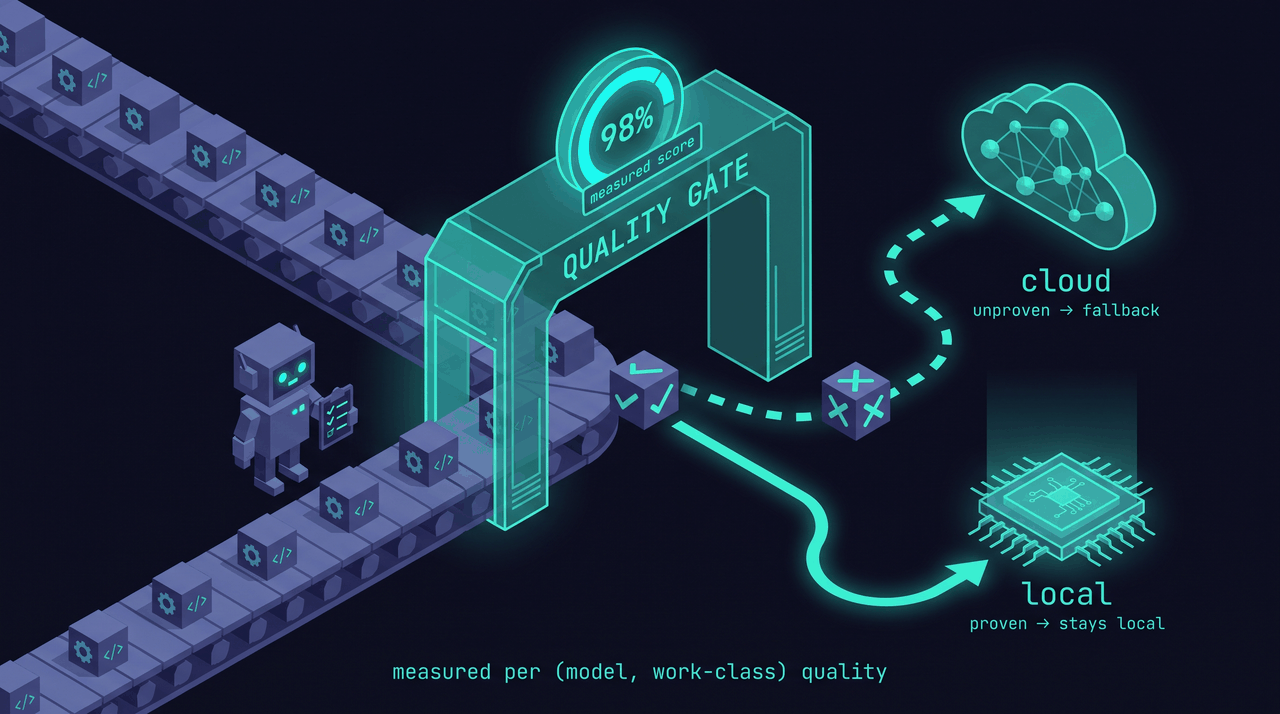
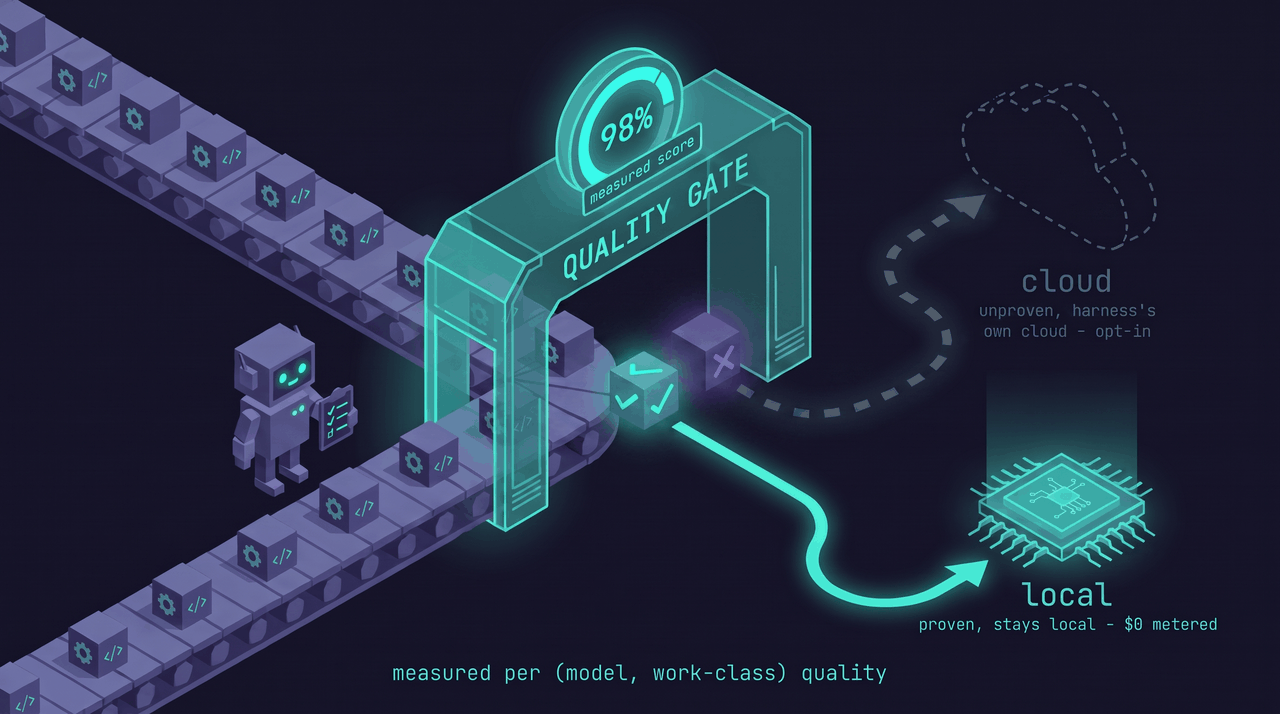
docs(assets): refresh architecture + quality-gate images for advise-and-defer (local-first/$0-metered; cloud opt-in, harness-owned) + fix README captions [advise-and-defer:T012] (#72)

diff --git a/README.md b/README.md
@@ -171,30 +171,32 @@ if `cloud`), 400 (malformed), 503 (no suitable tier).
 
 ### The quality profile (the moat)
 
-![The quality gate — work proven on a tier stays local; unproven work falls back to cloud, measured per (model, work-class)](assets/explainer-quality-gate.png)
+![The quality gate — work proven on a tier stays local ($0 metered); unproven work is deferred to the harness's own opt-in cloud subscription; measured per (model, work-class)](assets/explainer-quality-gate.png)
 
 A table keyed `(model, work-class) → {quality_score, sample_n, last_measured, decision}` where
 `decision ∈ {allow, allow-with-verify, deny}`. Hand-seeded for the MVP; later bootstrapped from
 the shadow-eval harness (the planning eval generalized to arbitrary work-classes), right-sized
-from your real usage via `profile`, and continuously calibrated from sampled production traffic
+from measured usage via `profile`, and continuously calibrated from sampled production traffic
 graded off the hot path. Keyed on a **serve fingerprint** (model + quant + engine + serve flags)
 so a quant/engine swap marks affected rows stale and triggers re-measure.
 
 ### Architecture
 
-![anvil-serving routing pipeline — resolve → route → verify → fallback, across fast-local / heavy-local / cloud tiers](assets/architecture.png)
+![anvil-serving routing pipeline — local-first across fast-local / heavy-local ($0 metered); cloud is the harness's own, opt-in](assets/architecture.png)
 
 ```
           ┌──────────────────── anvil-serving router ───────────────────┐
 harness → │ front door → resolve intent → route → [verify] → return     │ → harness
 (CC/Codex)│  (Anthropic   (preset in        (filter by    │  on fail ↘          │
           │   +OpenAI      model field, else  constraints, │  fall back to       │
-          │   dialects)    infer work-class)  rank by       │  next tier / cloud  │
+          │   dialects)    infer work-class)  rank by       │  next local tier    │
           │                                   quality profile)                   │
           └───────────────────────────────┬──────────────┴────────────────────┘
                                            ▼
-                fast-local :30001   heavy-local :30000   cloud (Anthropic/OpenAI)
-                  (multiplexer-managed)                    (your existing key/sub)
+                fast-local :30001   heavy-local :30000    · cloud is opt-in ·
+                  (multiplexer-managed, free GPU)         on a local miss anvil returns 503;
+                                                          the harness fails over to its OWN
+                                                          cloud subscription (anvil holds no key)
 ```
 
 The core stays **protocol-standard** (Anthropic Messages + OpenAI Chat Completions) with **zero